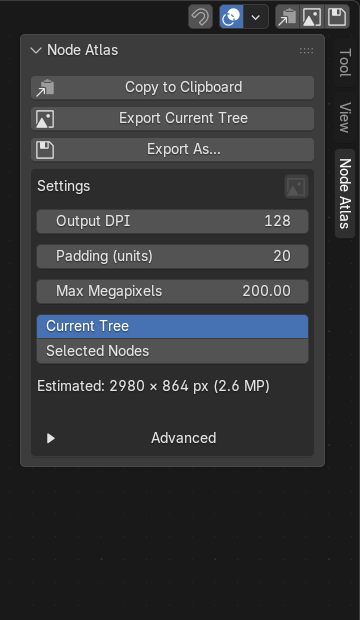
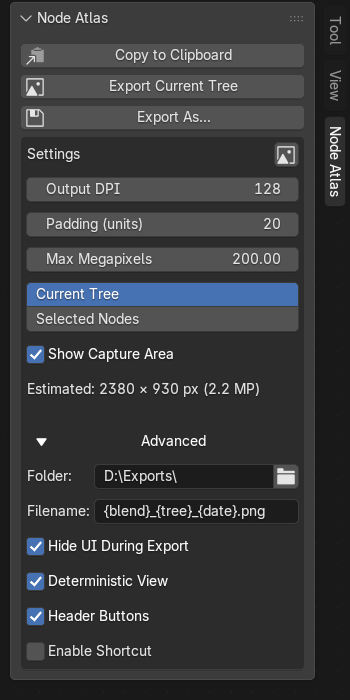
Remove the Restore UI preference
The option only decided whether UI flags and selection were restored; tree, view, scale and maximize were always restored, so turning it off left hidden panels and a cleared selection with no useful mode behind it. Every export now restores the editor UI and selection, including runs that hide the UI during capture.

Remove the property from preferences, export settings, both dialogs and the test fixtures. test_ui_options now runs the visible and hidden cases and requires both to restore the full editor state.

Regenerate panel.png with the Advanced section expanded, a neutral D:\\Exports folder and the capture-area overlay suppressed. Record the removal in CHANGELOG Unreleased and align README, the report, live-check and tests/README.

Unit 24/24 on 5.3.0; full matrix 175/175 (35/35 per version) on 4.2.23, 4.5.9, 5.1.2, 5.2.4 and 5.3.0.

Refs: CHANGELOG Unreleased; AGENTS.md section 7

diff --git a/tests/gui/test_ui_options.py b/tests/gui/test_ui_options.py
@@ -1,13 +1,9 @@
 # SPDX-License-Identifier: GPL-3.0-or-later
-"""Hide UI / restore UI option GUI test.
+"""Hide UI option GUI test.
 
-Two cases in one session:
-
-1. ``hide_ui=False`` with ``restore_ui=True``: the editor flags and selection
-   must be unchanged after the export.
-2. ``hide_ui=True`` with ``restore_ui=False``: the tree, pin, scale and view are
-   restored, but the UI flags and selection are deliberately left in the export
-   state.
+Two cases in one session: ``hide_ui=False`` and ``hide_ui=True``. Both must
+restore the editor flags, selection, active node, tree and view; the second
+case must also call ``capture.hide_ui`` at least once.
 """
 
 from __future__ import annotations
@@ -32,7 +28,6 @@ import png_content
 OUT = tempfile.mkdtemp(prefix="nodeatlas_ui_")
 FIXTURE = os.path.join(ROOT, "tests", "fixtures", "scene_both.blend")
 PADDING = 20
-UI_KEYS = ("gizmo", "context_path", "backdrop")
 state = {"ticks": 0, "case": 0, "before": None, "output": None, "found": None,
          "hide_calls": 0, "expect_hide": False, "results": {}}
 
@@ -91,7 +86,7 @@ def set_ui(space):
         space.show_backdrop = True
 
 
-def configure(hide_ui, restore_ui, name):
+def configure(hide_ui, name):
     area, region = node_area()
     window = bpy.context.window_manager.windows[0]
     if area is None:
@@ -123,7 +118,6 @@ def configure(hide_ui, restore_ui, name):
     prefs.max_mp = 100.0
     prefs.scope = "CURRENT"
     prefs.hide_ui = hide_ui
-    prefs.restore_ui = restore_ui
     prefs.deterministic = True
     state["expect_hide"] = hide_ui
     state["hide_calls"] = 0
@@ -159,25 +153,13 @@ def finish_case():
         fail(f"hide_ui=False still called capture.hide_ui {state['hide_calls']} times")
     after = snapshot()
     before = state["before"]
-
-    if state["case"] == 0:
-        if after != before:
-            fail(f"hide_ui=False changed the editor state: {before} != {after}")
-        state["results"] = {"visible": {"size": size, "state": "unchanged"}}
-    else:
-        for key in ("areas", "tree", "tree_type", "pin", "ui_scale", "smooth_view"):
-            if after[key] != before[key]:
-                fail(f"restore_ui=False changed {key}: {before[key]!r} != {after[key]!r}")
-        if after["selected"]:
-            fail(f"restore_ui=False restored the selection: {after['selected']}")
-        if after["active"] is not None:
-            fail(f"restore_ui=False restored the active node: {after['active']}")
-        if all(after[key] == before[key] for key in UI_KEYS):
-            fail("restore_ui=False restored the UI flags")
-        state["results"]["hidden"] = {
-            "size": size,
-            "state": "tree restored, UI left hidden",
-        }
+    if after != before:
+        fail(
+            f"hide_ui={state['expect_hide']} changed the editor state: "
+            f"{before} != {after}"
+        )
+    key = "hidden" if state["expect_hide"] else "visible"
+    state["results"][key] = {"size": size, "state": "restored"}
     return state["case"]
 
 
@@ -194,7 +176,7 @@ def tick():
                 state["found"] = None
                 if state["case"] == 1:
                     state["before"], state["output"] = configure(
-                        True, False, "ui_hidden.png"
+                        True, "ui_hidden.png"
                     )
                     start_export()
                     return 0.1
@@ -226,7 +208,7 @@ try:
 
     capture.hide_ui = tracked_hide_ui
     bpy.ops.wm.open_mainfile(filepath=FIXTURE)
-    state["before"], state["output"] = configure(False, True, "ui_visible.png")
+    state["before"], state["output"] = configure(False, "ui_visible.png")
     start_export()
 except Exception:
     fail("could not start the hide_ui=False export:\n" + traceback.format_exc())

diff --git a/docs/make_images.py b/docs/make_images.py
@@ -133,21 +133,20 @@ def setup():
     prefs.max_mp = 100.0
     prefs.scope = "CURRENT"
     prefs.hide_ui = True
-    prefs.restore_ui = True
     prefs.deterministic = True
 
 
 def save_panel():
     window, area, region = node_area()
     prefs = bpy.context.preferences.addons["node_atlas"].preferences
-    prefs.default_dir = ""
+    prefs.default_dir = r"D:\Exports" + os.sep
     prefs.filename_pattern = "{blend}_{tree}_{date}.png"
     prefs.output_dpi = 128
     prefs.padding = 20
     prefs.max_mp = 200.0
     prefs.scope = "CURRENT"
     prefs.enable_shortcut = False
-    prefs.show_advanced = False
+    prefs.show_advanced = True
     with bpy.context.temp_override(window=window, area=area, region=region):
         bpy.ops.screen.screen_full_area(use_hide_panels=False)
     window, area, region = node_area()
@@ -164,6 +163,9 @@ def save_panel():
     capture.redraw(window, area, region)
     bpy.context.preferences.view.ui_scale = 1.0
     capture.node_view_all(window, area, region, space)
+    from node_atlas import preview
+
+    preview.suppress = True
     with bpy.context.temp_override(window=window, area=area, region=region):
         bpy.ops.wm.redraw_timer(type="DRAW_WIN_SWAP", iterations=1)
 
@@ -184,12 +186,12 @@ def save_panel():
     if array.size != width * height * 4:
         fail(f"unexpected panel screenshot size: {array.size}")
 
-    # Bottom-up screenshot: keep the top of the window and the Node Atlas
-    # sidebar at native resolution so the controls stay legible in the README.
-    left = max(0, ui_region.x - 10)
+    # Bottom-up screenshot: keep the top of the sidebar and the Node Atlas
+    # controls at native resolution so the controls stay legible in the README.
+    left = max(0, ui_region.x)
     right = min(width, ui_region.x + ui_region.width)
-    top = height
-    bottom = max(0, height - 620)
+    top = min(height, ui_region.y + ui_region.height)
+    bottom = max(0, top - 700)
     crop = array.reshape(height, width, 4)[bottom:top, left:right]
     from node_atlas import stitch
 

diff --git a/node_atlas/operators.py b/node_atlas/operators.py
@@ -39,7 +39,6 @@ class ExportSettings:
     max_mp: float
     scope: str
     hide_ui: bool
-    restore_ui: bool
     deterministic: bool
     copy_only: bool = False
     keep_links: bool = False
@@ -136,7 +135,6 @@ def settings_from_prefs(prefs, filepath, copy_only: bool = False) -> ExportSetti
         max_mp=float(prefs.max_mp),
         scope=prefs.scope,
         hide_ui=bool(prefs.hide_ui),
-        restore_ui=bool(prefs.restore_ui),
         deterministic=bool(prefs.deterministic),
         copy_only=copy_only,
         keep_links=bool(prefs.keep_links),
@@ -452,15 +450,13 @@ class ExportJob:
         self._status("NodeAtlas: restoring UI…")
         if self.snapshot is not None:
             snapshot = self.snapshot
-            # Drop the per-tile selection before restoring, so a run with
-            # restore_ui off leaves the tree cleared instead of half-selected.
+            # Clear the per-tile selection first; restore_snapshot then
+            # reapplies the saved selection.
             try:
                 capture.clear_selection(self.tree)
             except Exception:
                 log.warning("Could not clear the capture selection", exc_info=True)
-            errors, warnings = capture.restore_snapshot(
-                snapshot, restore_ui=self.settings.restore_ui
-            )
+            errors, warnings = capture.restore_snapshot(snapshot)
             self.warnings.extend(warnings)
             if errors:
                 self.error = (self.error + "\n" if self.error else "") + "\n".join(errors)
@@ -760,7 +756,6 @@ class NODE_ATLAS_OT_export_as(bpy.types.Operator, ExportHelper):
         box.prop(prefs, "max_mp")
         box.prop(prefs, "scope", expand=True)
         box.prop(prefs, "hide_ui")
-        box.prop(prefs, "restore_ui")
         box.prop(prefs, "deterministic")
 
     def execute(self, context):

diff --git a/node_atlas/capture.py b/node_atlas/capture.py
@@ -622,7 +622,7 @@ def _restore_tree_path(
     )
 
 
-def restore_snapshot(snapshot: EditorSnapshot, restore_ui: bool = True):
+def restore_snapshot(snapshot: EditorSnapshot):
     """Best-effort restoration. Returns (errors, warnings)."""
     restore_link_highlight(snapshot.link_highlight_alpha)
     errors: list[str] = []
@@ -647,8 +647,6 @@ def restore_snapshot(snapshot: EditorSnapshot, restore_ui: bool = True):
         errors.append(f"tree/pin restore failed: {exc}")
 
     def restore_ui_state(target_space):
-        if not restore_ui:
-            return
         with bpy.context.temp_override(window=snapshot.window):
             _restore_attr(target_space, "show_region_header", snapshot.header)
             _restore_attr(target_space, "show_region_ui", snapshot.ui)
@@ -658,7 +656,7 @@ def restore_snapshot(snapshot: EditorSnapshot, restore_ui: bool = True):
             _restore_attr(target_space, "show_backdrop", snapshot.backdrop)
 
     def restore_selection():
-        if not restore_ui or snapshot.tree is None:
+        if snapshot.tree is None:
             return
         try:
             for node in snapshot.tree.nodes:

diff --git a/node_atlas/__init__.py b/node_atlas/__init__.py
@@ -116,10 +116,9 @@ class NODE_PT_node_atlas(bpy.types.Panel):
             icon="TRIA_DOWN" if prefs.show_advanced else "TRIA_RIGHT",
         )
         if prefs.show_advanced:
-            box.prop(prefs, "default_dir")
-            box.prop(prefs, "filename_pattern")
+            box.prop(prefs, "default_dir", text="Folder")
+            box.prop(prefs, "filename_pattern", text="Filename")
             box.prop(prefs, "hide_ui")
-            box.prop(prefs, "restore_ui")
             box.prop(prefs, "deterministic")
             box.prop(prefs, "show_header_button")
             box.prop(prefs, "enable_shortcut")

diff --git a/node_atlas/preferences.py b/node_atlas/preferences.py
@@ -138,11 +138,6 @@ class NodeAtlasPreferences(bpy.types.AddonPreferences):
         description="Hide headers, toolbars, gizmos and the context path",
         default=True,
     )
-    restore_ui: bpy.props.BoolProperty(
-        name="Restore UI",
-        description="Restore the editor state after export (recommended)",
-        default=True,
-    )
     deterministic: bpy.props.BoolProperty(
         name="Deterministic View",
         description="Prime the view with View All before zooming; makes repeated exports identical",

diff --git a/tests/gui/test_density.py b/tests/gui/test_density.py
@@ -82,7 +82,6 @@ def setup():
     prefs.max_mp = 100.0
     prefs.scope = "CURRENT"
     prefs.hide_ui = True
-    prefs.restore_ui = True
     prefs.deterministic = True
     bpy.context.preferences.view.ui_scale = 2.0
     with bpy.context.temp_override(window=window, area=area, region=region):

diff --git a/tests/gui/test_extreme.py b/tests/gui/test_extreme.py
@@ -75,7 +75,6 @@ def setup():
     prefs.max_mp = 100.0
     prefs.scope = "CURRENT"
     prefs.hide_ui = True
-    prefs.restore_ui = True
     prefs.deterministic = True
     bpy.context.preferences.view.ui_scale = 6.0
     with bpy.context.temp_override(window=window, area=area, region=region):

diff --git a/tests/gui/test_scaling.py b/tests/gui/test_scaling.py
@@ -79,7 +79,6 @@ def setup():
     prefs.max_mp = 100.0
     prefs.scope = "CURRENT"
     prefs.hide_ui = True
-    prefs.restore_ui = True
     prefs.deterministic = True
     state["os_scale"] = bpy.context.preferences.system.ui_scale
     return snapshot()

diff --git a/tests/gui/test_export.py b/tests/gui/test_export.py
@@ -107,7 +107,6 @@ def setup():
     prefs.max_mp = 100.0
     prefs.scope = "CURRENT"
     prefs.hide_ui = True
-    prefs.restore_ui = True
     prefs.deterministic = True
     state["output"] = os.path.join(OUT, "test_export.png")
     return snapshot()

diff --git a/tests/gui/test_trees.py b/tests/gui/test_trees.py
@@ -99,7 +99,6 @@ def configure_tree(kind):
     prefs.max_mp = 100.0
     prefs.scope = "CURRENT"
     prefs.hide_ui = True
-    prefs.restore_ui = True
     prefs.deterministic = True
     return snapshot(), os.path.join(OUT, name)
 

diff --git a/tests/gui/test_maxmp.py b/tests/gui/test_maxmp.py
@@ -82,7 +82,6 @@ def setup():
     prefs.max_mp = 0.01  # far below the real ~3.6 MP output
     prefs.scope = "CURRENT"
     prefs.hide_ui = True
-    prefs.restore_ui = True
     prefs.deterministic = True
     return snapshot()
 
